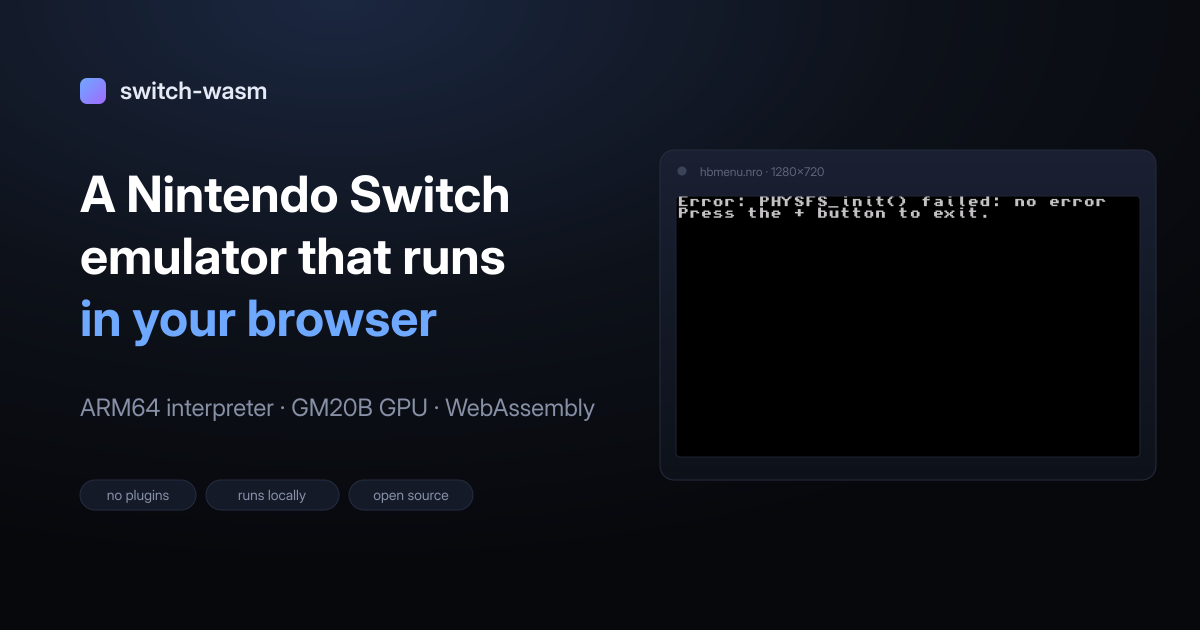
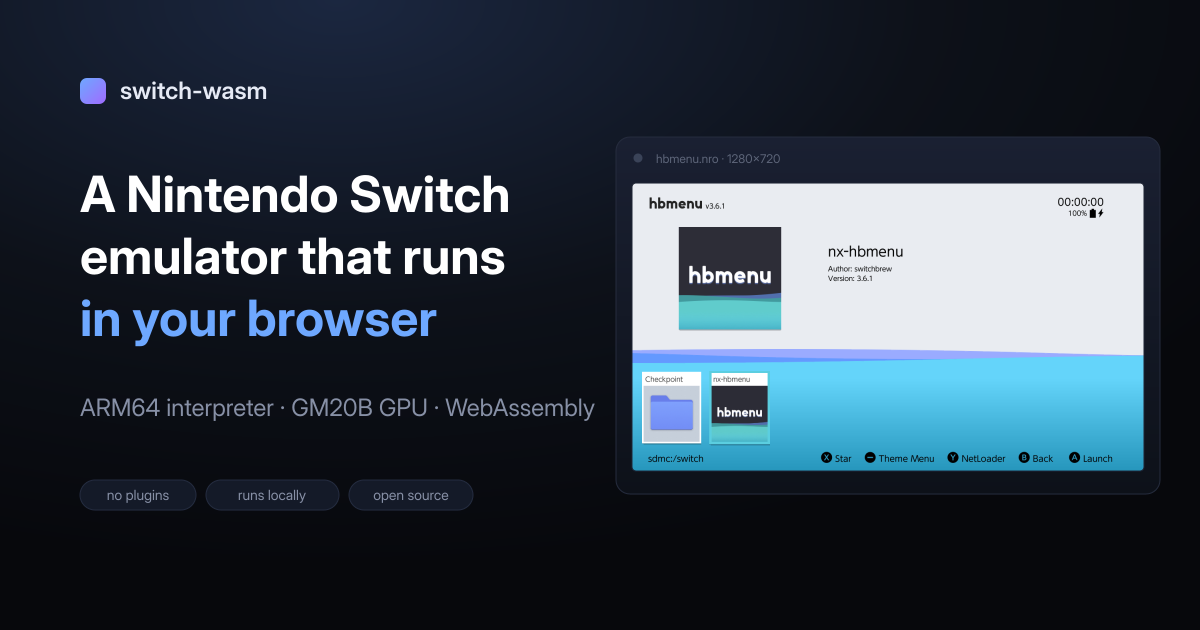
chore(web): regenerate the OpenGraph image from a rendered hbmenu frame
The card showed hbmenu's PHYSFS_init error, zoomed into the top-left
quarter of an otherwise black frame. hbmenu now renders its full menu,
so the card shows the whole frame at 1x in a slightly larger window.

The window geometry is now derived from the screen width instead of
being repeated as literals, so resizing it is a one-value change.

Changed region(s): [[0.5242, 0.2413, 0.9558, 0.754], [0.7092, 0.2111, 0.9867, 0.2714]]

diff --git a/tools/make_og.py b/tools/make_og.py
@@ -25,9 +25,19 @@ HEADLINE = ["A Nintendo Switch", "emulator that runs", "in your browser"]
 SUBTITLE = "ARM64 interpreter · GM20B GPU · WebAssembly"
 
 # The captured frame is 16:9, and so is the screen area it is drawn into.
-# Scaling it up and clipping shows the top-left quadrant, where the guest's
-# output actually is, instead of a mostly-black full frame.
-SCREEN_ZOOM = 2.0
+# A value above 1 scales it up and clips to the top-left corner, for frames
+# whose output only fills part of the screen.
+SCREEN_ZOOM = 1.0
+SCREEN_WIDTH = 512
+SCREEN_HEIGHT = SCREEN_WIDTH * 9 // 16
+# The window's title bar sits above the screen; the other sides are a thin bezel.
+BEZEL_SIDE, BEZEL_TOP, BEZEL_BOTTOM = 16, 46, 23
+WINDOW_WIDTH = SCREEN_WIDTH + 2 * BEZEL_SIDE
+WINDOW_HEIGHT = SCREEN_HEIGHT + BEZEL_TOP + BEZEL_BOTTOM
+WINDOW_X = WIDTH - 40 - WINDOW_WIDTH
+WINDOW_Y = 315 - WINDOW_HEIGHT // 2
+SCREEN_X = WINDOW_X + BEZEL_SIDE
+SCREEN_Y = WINDOW_Y + BEZEL_TOP
 CHIPS = ["no plugins", "runs locally", "open source"]
 
 SANS = "Inter Display, Inter, Noto Sans, Liberation Sans, sans-serif"
@@ -85,7 +95,7 @@ def build_svg(screenshot_uri: str) -> str:
       <stop offset="100%" stop-color="#0d1119"/>
     </linearGradient>
     <clipPath id="screenclip">
-      <rect x="676" y="196" width="464" height="261" rx="4"/>
+      <rect x="{SCREEN_X}" y="{SCREEN_Y}" width="{SCREEN_WIDTH}" height="{SCREEN_HEIGHT}" rx="4"/>
     </clipPath>
   </defs>
 
@@ -105,14 +115,16 @@ def build_svg(screenshot_uri: str) -> str:
 
   <!-- device: the app window, with a real captured frame inside -->
   <g>
-    <rect x="660" y="150" width="496" height="330" rx="14" fill="url(#bezel)" stroke="#252c3e"/>
-    <circle cx="682" cy="171" r="4.5" fill="#3a4358"/>
-    <rect x="676" y="196" width="464" height="261" rx="4" fill="#000000"/>
-    <image xlink:href="{screenshot_uri}" x="676" y="196"
-           width="{464 * SCREEN_ZOOM:.0f}" height="{261 * SCREEN_ZOOM:.0f}"
+    <rect x="{WINDOW_X}" y="{WINDOW_Y}" width="{WINDOW_WIDTH}" height="{WINDOW_HEIGHT}" rx="14"
+          fill="url(#bezel)" stroke="#252c3e"/>
+    <circle cx="{WINDOW_X + 22}" cy="{WINDOW_Y + 21}" r="4.5" fill="#3a4358"/>
+    <rect x="{SCREEN_X}" y="{SCREEN_Y}" width="{SCREEN_WIDTH}" height="{SCREEN_HEIGHT}" rx="4" fill="#000000"/>
+    <image xlink:href="{screenshot_uri}" x="{SCREEN_X}" y="{SCREEN_Y}"
+           width="{SCREEN_WIDTH * SCREEN_ZOOM:.0f}" height="{SCREEN_HEIGHT * SCREEN_ZOOM:.0f}"
            preserveAspectRatio="xMidYMid slice" clip-path="url(#screenclip)"/>
-    <rect x="676" y="196" width="464" height="261" rx="4" fill="none" stroke="#1d2434"/>
-    <text x="700" y="176" font-family="{SANS}" font-size="12" fill="#5d6579">hbmenu.nro · 1280×720</text>
+    <rect x="{SCREEN_X}" y="{SCREEN_Y}" width="{SCREEN_WIDTH}" height="{SCREEN_HEIGHT}" rx="4"
+          fill="none" stroke="#1d2434"/>
+    <text x="{WINDOW_X + 40}" y="{WINDOW_Y + 26}" font-family="{SANS}" font-size="12" fill="#5d6579">hbmenu.nro · 1280×720</text>
   </g>
 </svg>
 """
